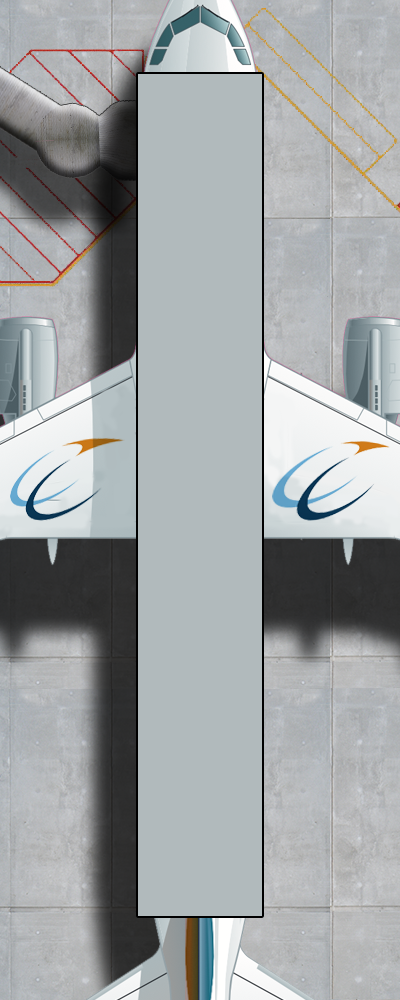
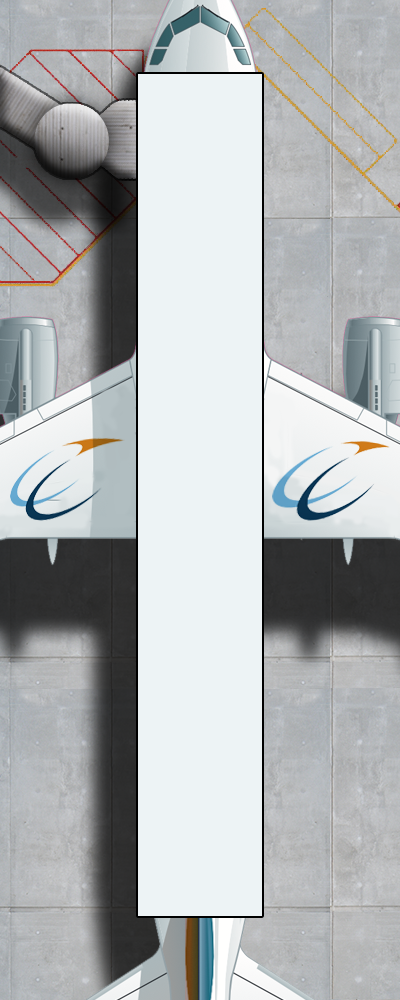
updated images, improved image handling

Changed region(s): [[0.0, 0.062, 0.66, 0.93]]

diff --git a/net.bhl.cdt.model.cabin/src/net/bhl/cdt/model/cabin/ui/CabinViewPart.java b/net.bhl.cdt.model.cabin/src/net/bhl/cdt/model/cabin/ui/CabinViewPart.java
@@ -61,7 +61,7 @@ public class CabinViewPart extends ViewPart {
 	private static final int OFFSET_OF_DOOR = 0;
 	private static final double PASSENGER_CIRCLE_SIZE = 0.5;
 
-	private static final int CABIN_WIDTH_IN_PIXELS = 124;
+	private static final int CABIN_WIDTH_IN_PIXELS = 123;
 	private static int xZero = 139;
 	private static int yZero = 75;
 	private static final int DOOR_DEPTH = 2;
@@ -82,6 +82,7 @@ public class CabinViewPart extends ViewPart {
 	private static Font fontOne;
 	private static Font fontTwo;
 	private static Font fontThree;
+	private static Color aircraftBackground;
 	/********************************************************************/
 
 	private static ILog logger;
@@ -116,6 +117,10 @@ public class CabinViewPart extends ViewPart {
 		graphicsControl.setAntialias(SWT.ON);
 		graphicsControl.setInterpolation(SWT.HIGH);
 		graphicsControl.drawImage(newAircraft, 0, 0);
+		graphicsControl.setBackground(aircraftBackground);
+		graphicsControl.fillRectangle(xZero, yZero,
+				(int) (cabin.getCabinWidth() / factor),
+				(int) (cabin.getCabinLength() / factor));
 		graphicsControl.drawLine(xZero, yZero
 				+ (int) (cabin.getCabinLength() / factor),
 				xZero + (int) (cabin.getCabinWidth() / factor), yZero
@@ -301,6 +306,7 @@ public class CabinViewPart extends ViewPart {
 		darkGray = new Color(parent.getDisplay(), 105, 105, 105);
 		white = new Color(parent.getDisplay(), 255, 255, 255);
 		black = new Color(parent.getDisplay(), 0, 0, 0);
+		aircraftBackground = new Color(parent.getDisplay(), 237, 243, 245);
 		fontOne = new Font(parent.getDisplay(), fontName, 8, SWT.NORMAL);
 		fontTwo = new Font(parent.getDisplay(), fontName, fontsize, SWT.NORMAL);
 		fontThree = new Font(parent.getDisplay(), fontName, 9, SWT.NORMAL);
